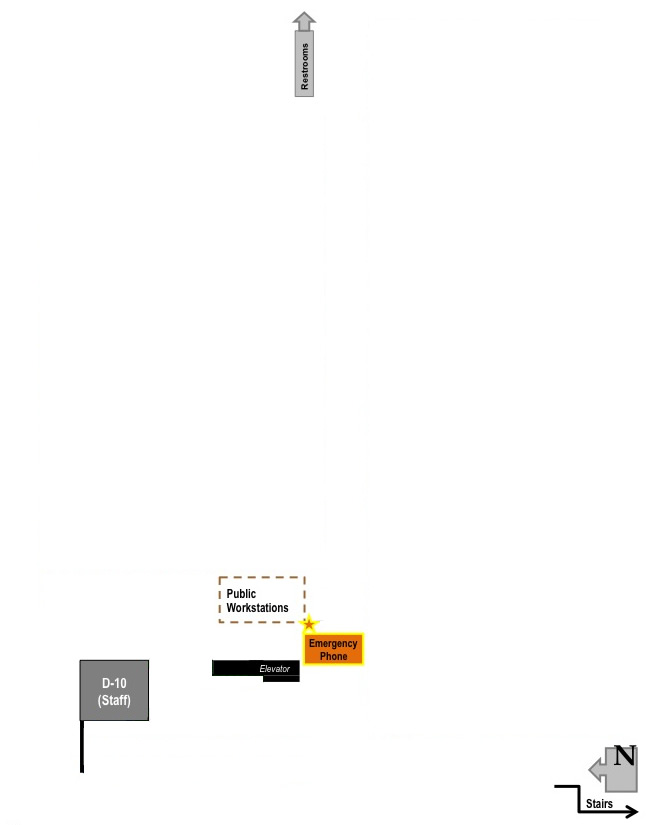
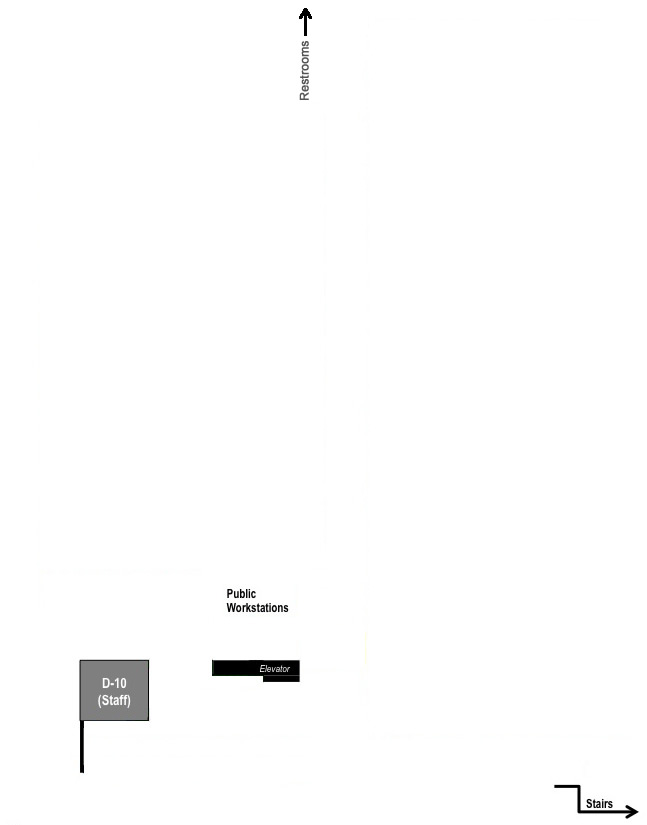
map image tweaks, fixed missing wid 6E

diff --git a/web/maps/wid/6E.html b/web/maps/wid/6E.html
@@ -1,7 +1,7 @@
 <include href="{{ @header }}" />
 <style>
-#map6W {
-	width:730px;
+#map6E {
+	width:725px;
 	height: 480px;
 }
 
@@ -9,15 +9,32 @@
   margin-top:-480px;
 }
 
-#bottomfull {
-	margin:0px 0px 50px 24px;
+#toprow {
+	margin:56px 15px 10px 106px;
 	float:left;
 }
 
-#rightcolumntop {
-	margin:30px 0px 10px 600px;
-	float:left;
+#rightcolumn {
+	margin:7px 15px 10px 580px;
 	width:100px;
+	float:left;
+}
+
+.left1 {
+	border-left: 1px solid #6a8012;
+	border-bottom: 1px solid #6a8012;
+	border-top: 1px solid #6a8012;
+	height: 12px;
+	width: 5px;
+	margin-top:96px;
+}
+
+.right1 {
+	border: 1px solid #6a8012;
+	height: 12px;
+	width: 5px;
+	margin-right: 5px;
+	margin-top:96px;
 }
 
 .left3 {
@@ -26,7 +43,7 @@
 	border-top: 1px solid #6a8012;
 	height: 36px;
 	width: 5px;
-	margin-bottom:156px;
+	margin-top:84px;
 }
 
 .right3 {
@@ -34,7 +51,7 @@
 	height: 36px;
 	width: 5px;
 	margin-right: 5px;
-	margin-bottom:156px;
+	margin-top:84px;
 }
 
 .left4 {
@@ -43,7 +60,7 @@
 	border-top: 1px solid #6a8012;
 	height: 48px;
 	width: 5px;
-	margin-top:60px;
+	margin-top:12px;
 }
 
 .right4 {
@@ -51,39 +68,7 @@
 	height: 48px;
 	width: 5px;
 	margin-right: 5px;
-	margin-top:60px;
-}
-
-.left6 {
-	border-left: 1px solid #6a8012;
-	border-bottom: 1px solid #6a8012;
-	border-top: 1px solid #6a8012;
-	height: 72px;
-	width: 5px;
 	margin-top:12px;
-}
-
-.right6 {
-	border: 1px solid #6a8012;
-	height: 72px;
-	width: 5px;
-	margin-right: 5px;
-	margin-top:12px;
-}
-
-.left7 {
-	border-left: 1px solid #6a8012;
-	border-bottom: 1px solid #6a8012;
-	border-top: 1px solid #6a8012;
-	height: 84px;
-	width: 5px;
-}
-
-.right7 {
-	border: 1px solid #6a8012;
-	height: 84px;
-	width: 5px;
-	margin-right: 5px;
 }
 
 .left8 {
@@ -109,7 +94,6 @@
 	border-top: 1px solid #6a8012;
 	height: 120px;
 	width: 5px;
-	margin-bottom:72px;
 }
 
 .right10 {
@@ -117,15 +101,18 @@
 	height: 120px;
 	width: 5px;
 	margin-right: 5px;
-	margin-bottom:72px;
+}
+
+.bottom {
+	margin-bottom:12px;
+}
+
+.center {
+	margin-bottom:12px;
 }
 
 .top {
-	margin-bottom:106px;
-}
-
-.above {
-	margin-bottom:108px;
+	margin-bottom:60px;
 }
 
 .top6 {
@@ -142,71 +129,64 @@
 	margin-bottom: 5px;
 	width: 72px;
 }
-
-.tall-space {
-	margin-bottom: 11px;
-}
 </style>
 </head>
 <body>
   <div class="container">
     <include href="{{ @headermap }}" />
-  <img src="/map-it/images/wid/wid-6W.jpg" alt="Widener 6W" class="print-map" />
-        <div id="map6W" class="map">
-        	<div id="rightcolumntop">
-       			<span id="row1" class="top6"></span><span id="row2" class="bottom6 tall-space"></span>
-       			<span id="row3" class="top6"></span><span id="row4" class="bottom6 tall-space"></span>
-       			<span id="row5" class="top6"></span><span id="row6" class="bottom6 tall-space"></span>
-       			<span id="row7" class="top6"></span><span id="row8" class="bottom6 tall-space"></span>
-       			<span id="row9" class="top6"></span><span id="row10" class="bottom6 tall-space"></span>
-       			<span id="row11" class="top6"></span><span id="row12" class="bottom6 tall-space"></span>
-       			<span id="row13" class="top6"></span><span id="row14" class="bottom6 tall-space"></span>
-       			<span id="row15" class="top6"></span><span id="row16" class="bottom6 tall-space"></span>
-       			<span id="row17" class="top6"></span><span id="row18" class="bottom6 tall-space"></span>
-       			<span id="row19" class="top6"></span><span id="row20" class="bottom6 tall-space"></span>
-       			<span id="row21" class="top6"></span><span id="row22" class="bottom6 tall-space"></span>
+  <img src="/map-it/images/wid/wid-6E.jpg" alt="Widener 6E" class="print-map" />
+        <div id="map6E" class="map">
+        	<div id="toprow">
+       			<span id="row1" class="left1 bottom"></span><span id="row2" class="right1 bottom"></span>
+       			<span id="row3" class="left8 center"></span><span id="row4" class="right8 center"></span>
+       			<span id="row5" class="left8 center"></span><span id="row6" class="right8 center"></span>
+       			<span id="row7" class="left8 center"></span><span id="row8" class="right8 center"></span>
+       			<span id="row9" class="left8 center"></span><span id="row10" class="right8 center"></span>
+       			<span id="row11" class="left8 center"></span><span id="row12" class="right8 center"></span>
+       			<span id="row13" class="left8 center"></span><span id="row14" class="right8 center"></span>
+       			<span id="row15" class="left4 top"></span><span id="row16" class="right4 top"></span>
+       			<span id="row17" class="left4 top"></span><span id="row18" class="right4 top"></span>
+       			<span id="row19" class="left4 top"></span><span id="row20" class="right4 top"></span>
+       			<span id="row21" class="left8 center"></span><span id="row22" class="right8 center"></span>
+       			<span id="row23" class="left8 center"></span><span id="row24" class="right8 center"></span>
+       			<span id="row25" class="left8 center"></span><span id="row26" class="right8 center"></span>
+       			<span id="row27" class="left8 center"></span><span id="row28" class="right8 center"></span>
+       			<span id="row29" class="left8 center"></span><span id="row30" class="right8 center"></span>
+       			<span id="row31" class="left8 center"></span><span id="row32" class="right8 center"></span>
+       			<span id="row33" class="left8 center"></span><span id="row34" class="right8 center"></span>
+       			<span id="row35" class="left8 center"></span><span id="row36" class="right8 center"></span>
+       			<span id="row37" class="left8 center"></span><span id="row38" class="right8 center"></span>
+       			<span id="row39" class="left8 center"></span><span id="row40" class="right8 center"></span>
+       			<span id="row41" class="left8 center"></span><span id="row42" class="right8 center"></span>
+       			<span id="row43" class="left8 center"></span><span id="row44" class="right8 center"></span>
+       			<span id="row45" class="left10"></span><span id="row46" class="right10"></span>
+       			<span id="row47" class="left10"></span><span id="row48" class="right10"></span>
+       			<span id="row49" class="left10"></span><span id="row50" class="right10"></span>
+       			<span id="row51" class="left10"></span><span id="row52" class="right10"></span>
+       			<span id="row53" class="left10"></span><span id="row54" class="right10"></span>
+       			<span id="row55" class="left10"></span><span id="row56" class="right10"></span>
+       			<span id="row57" class="left10"></span><span id="row58" class="right10"></span>
+       			<span id="row59" class="left10"></span><span id="row60" class="right10"></span>
+       			<span id="row61" class="left3"></span><span id="row62" class="right3"></span>
        		</div>
        		<div class="clear"></div>
-       		<div id="bottomfull">
-       			<span id="row96" class="left8"></span><span id="row95" class="right8"></span>
-       			<span id="row94" class="left8"></span><span id="row93" class="right8"></span>
-       			<span id="row92" class="left8"></span><span id="row91" class="right8"></span>
-       			<span id="row90" class="left8"></span><span id="row89" class="right8"></span>
-       			<span id="row88" class="left8"></span><span id="row87" class="right8"></span>
-       			<span id="row86" class="left8"></span><span id="row85" class="right8"></span>
-       			<span id="row84" class="left8"></span><span id="row83" class="right8"></span>
-       			<span id="row82" class="left8"></span><span id="row81" class="right8"></span>
-       			<span id="row80" class="left8"></span><span id="row79" class="right8"></span>
-       			<span id="row78" class="left8"></span><span id="row77" class="right8"></span>
-       			<span id="row76" class="left8"></span><span id="row75" class="right8"></span>
-       			<span id="row74" class="left8"></span><span id="row73" class="right8"></span>
-       			<span id="row72" class="left8"></span><span id="row71" class="right8"></span>
-       			<span id="row70" class="left4"></span><span id="row69" class="right4"></span>
-       			<span id="row68" class="left4"></span><span id="row67" class="right4"></span>
-       			<span id="row66" class="left4"></span><span id="row65" class="right4"></span>
-       			<span id="row64" class="left8"></span><span id="row63" class="right8"></span>
-       			<span id="row62" class="left8"></span><span id="row61" class="right8"></span>
-       			<span id="row60" class="left8"></span><span id="row59" class="right8"></span>
-       			<span id="row58" class="left8"></span><span id="row57" class="right8"></span>
-       			<span id="row56" class="left8"></span><span id="row55" class="right8"></span>
-       			<span id="row54" class="left8"></span><span id="row53" class="right8"></span>
-       			<span id="row52" class="left8"></span><span id="row51" class="right8"></span>
-       			<span id="row50" class="left8"></span><span id="row49" class="right8"></span>
-       			<span id="row48" class="left8"></span><span id="row47" class="right8"></span>
-       			<span id="row46" class="left8"></span><span id="row45" class="right8"></span>
-       			<span id="row44" class="left6 top"></span><span id="row43" class="right6 top"></span>
-       			<span id="row42" class="left6 top"></span><span id="row41" class="right6 top"></span>
-       			<span id="row40" class="left7 above"></span><span id="row39" class="right7 above"></span>
-       			<span id="row38" class="left7 above"></span><span id="row37" class="right7 above"></span>
-       			<span id="row36" class="left10"></span><span id="row35" class="right10"></span>
-       			<span id="row34" class="left10"></span><span id="row33" class="right10"></span>
-       			<span id="row32" class="left7 above"></span><span id="row31" class="right7 above"></span>
-       			<span id="row30" class="left7 above"></span><span id="row29" class="right7 above"></span>
-       			<span id="row28" class="left7 above"></span><span id="row27" class="right7 above"></span>
-       			<span id="row26" class="left7 above"></span><span id="row25" class="right7 above"></span>
-       			<span id="row24" class="left3"></span><span id="row23" class="right3"></span>
+       		<div id="rightcolumn">
+       			<span id="row63" class="top6"></span><span id="row65" class="bottom6"></span>
+       			<span id="row65" class="top6"></span><span id="row66" class="bottom6"></span>
+       			<span id="row67" class="top6"></span><span id="row68" class="bottom6"></span>
+       			<span id="row69" class="top6"></span><span id="row70" class="bottom6"></span>
+       			<span id="row71" class="top6"></span><span id="row72" class="bottom6"></span>
+       			<span id="row73" class="top6"></span><span id="row74" class="bottom6"></span>
+       			<span id="row75" class="top6"></span><span id="row76" class="bottom6"></span>
+       			<span id="row77" class="top6"></span><span id="row78" class="bottom6"></span>
+       			<span id="row79" class="top6"></span><span id="row80" class="bottom6"></span>
+       			<span id="row81" class="top6"></span><span id="row82" class="bottom6"></span>
+       			<span id="row83" class="top6"></span><span id="row84" class="bottom6"></span>
+       			<span id="row85" class="top6"></span><span id="row86" class="bottom6"></span>
+       			<span id="row87" class="top6"></span><span id="row88" class="bottom6"></span>
+       			<span id="row89" class="top6"></span><span id="row90" class="bottom6"></span>
+       			<span id="row91" class="top6"></span>
        		</div>
        	</div>  
-  </div>
+       </div>
 </body>
-</html>

diff --git a/web/admin/maps.html b/web/admin/maps.html
@@ -80,7 +80,7 @@ if ($users[$_SERVER['PHP_AUTH_USER']] != $_SERVER['PHP_AUTH_PW'])
             <li><a href="/map-it/map/law/2/7" target="_blank">Langdell 2</a></li>
             <li><a href="/map-it/map/law/3/7" target="_blank">Langdell 3</a></li>
             <li><a href="/map-it/map/law/4Bridge/7" target="_blank">Langdell 4 Bridge</a></li>
-            <li><a href="/map-it/map/law/4North/7" target="_blank">Langdell 4 North</a></li>
+            <li><a href="/map-it/map/law/4North/67" target="_blank">Langdell 4 North</a></li>
             <li><a href="/map-it/map/law/4South/7" target="_blank">Langdell 4 South</a></li>
             <li><a href="/map-it/map/law/LewisBasement/7" target="_blank">Lewis Basement</a></li>
             <li><a href="/map-it/map/law/Lewis1/7" target="_blank">Lewis 1</a></li>
